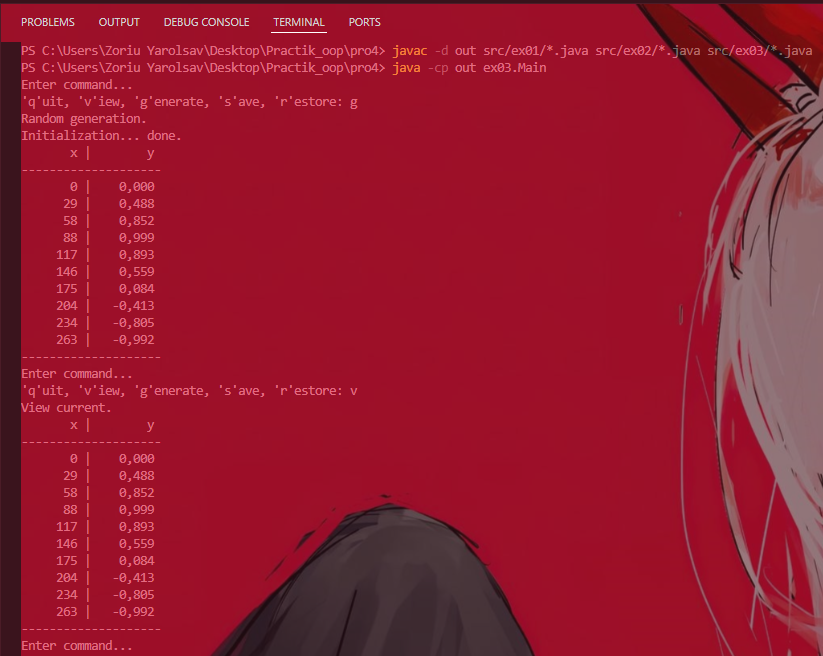
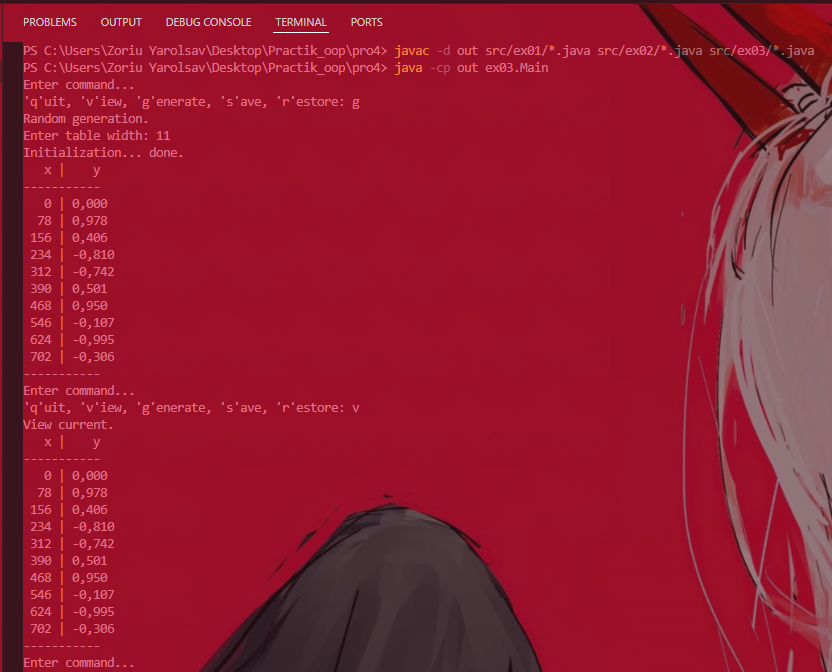
Add files via upload

diff --git a/pro4/src/ex03/ViewTable.java b/pro4/src/ex03/ViewTable.java
@@ -1,6 +1,7 @@
 package ex03;
 
 import java.util.Formatter;
+import java.util.Scanner;
 import ex01.Item2d;
 import ex02.ViewResult;
 
@@ -121,10 +122,16 @@ public class ViewTable extends ViewResult {
 
     /**
      * Перевизначення методу init().
+     * Користувач задає ширину таблиці з клавіатури.
      * @param stepX крок зміни x
      */
     @Override
     public void init(double stepX) {
+        Scanner sc = new Scanner(System.in);
+
+        System.out.print("Enter table width: ");
+        width = sc.nextInt();
+
         System.out.print("Initialization... ");
         super.init(stepX);
         System.out.println("done.");
